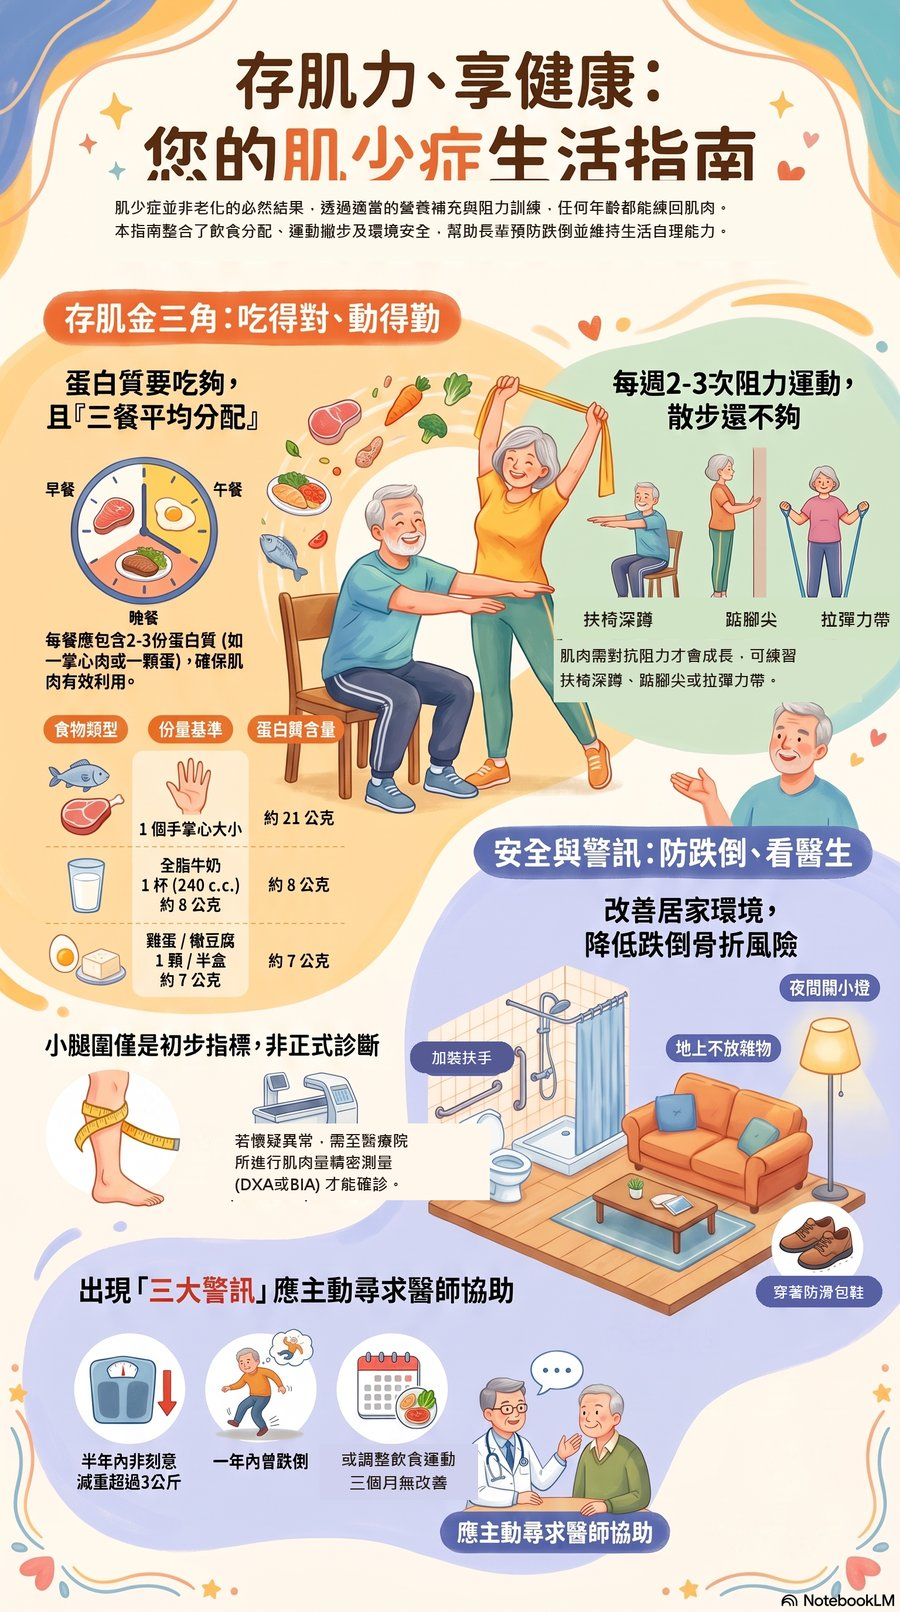
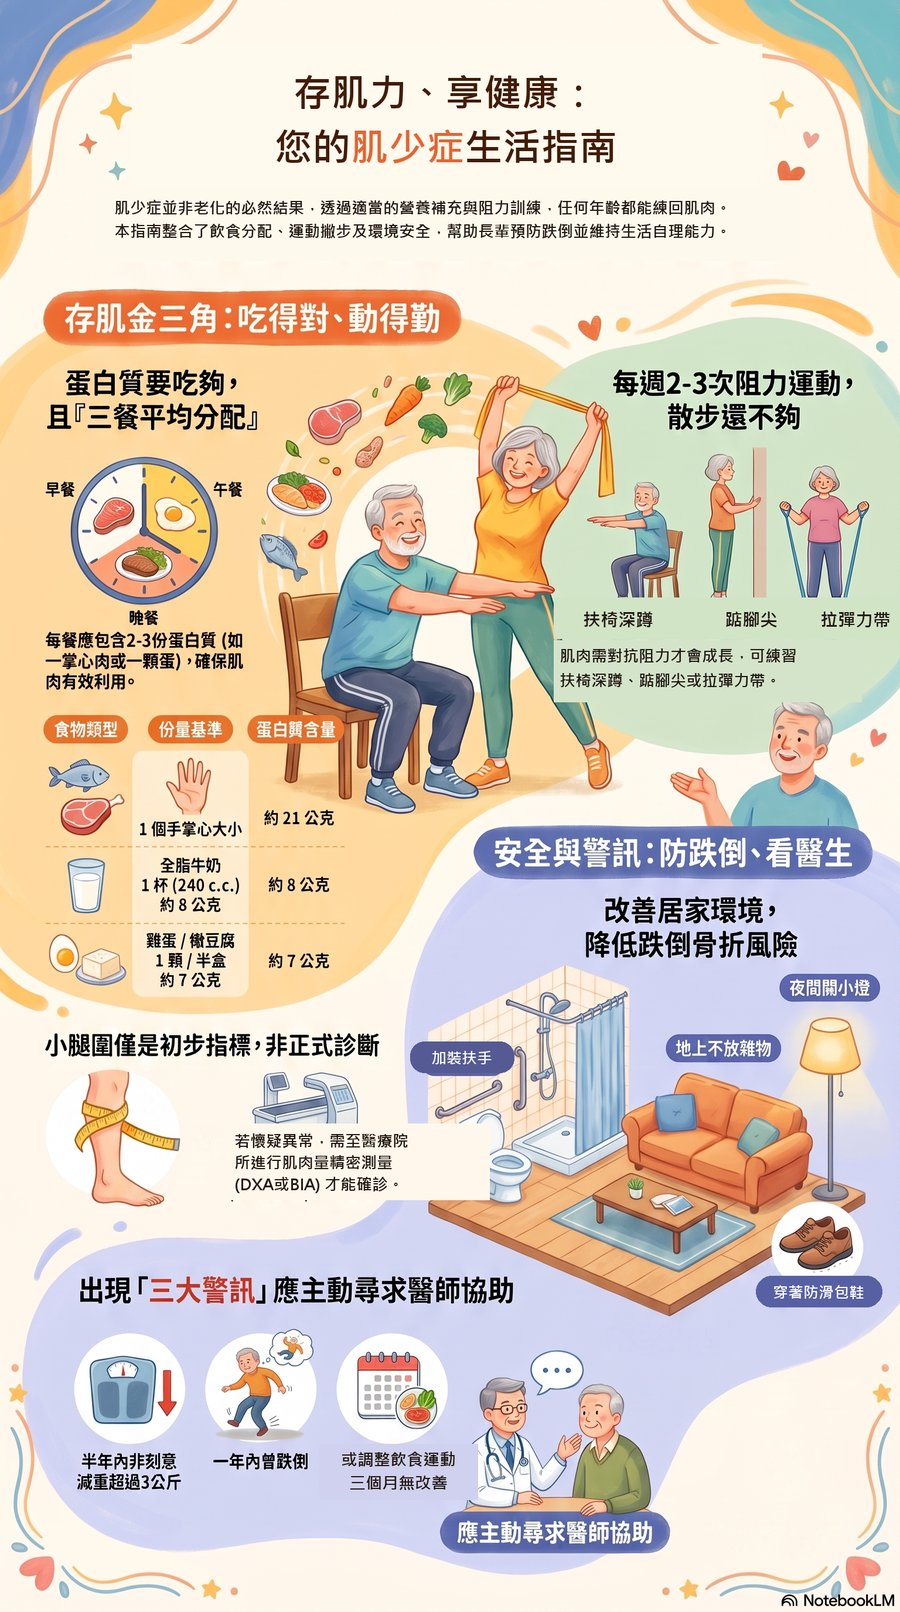
調整 Wordwall 測驗與海報：中文化、主題換亮、標題縮小
- quiz.html 內嵌網址改用 /tc/ 路徑，測驗介面全部中文化（開始／
  一系列多選題等），不用再看到英文
- Wordwall 主題從 Indigo 換成 Clouds，題目畫面從深色底變亮藍色；
  進場前的黑底封面卡片是 Wordwall 播放器固定樣式，換主題不會變，
  改用檸檬黃 (#FFF450) 包住測驗卡片外圍做折衷
- Wordwall 內容：11 處答案選項縮短拉齊字數，減少自動縮字造成的
  字體大小落差
- 海報標題「存肌力、享健康：您的肌少症生活指南」縮小字級，
  避免在部分裝置的預覽視窗被裁切

Changed region(s): [[0.1556, 0.031, 0.84, 0.1241]]

diff --git a/quiz.html b/quiz.html
@@ -20,6 +20,8 @@ h1{font-size:1.4rem;margin:0 0 4px}
   padding:16px;margin-bottom:18px}
 h2{font-size:1.1rem;margin:0 0 12px;color:var(--accent)}
 .poster{width:100%;border-radius:10px;display:block;margin:0 auto}
+.quiz-card{background:#FFF450;border-color:#e6dc48}
+.quiz-card h2{color:#5a4a00}
 .quiz-frame{width:100%;aspect-ratio:500/380;border:none;border-radius:10px;display:block}
 .edu-link{display:block;text-align:center;background:var(--accent);color:#fff;
   text-decoration:none;font-weight:700;padding:14px;border-radius:10px;margin-top:6px}
@@ -40,10 +42,10 @@ footer a{color:var(--accent)}
        alt="存肌力、享健康：肌少症生活指南衛教海報，內容包含蛋白質怎麼吃、阻力運動怎麼做、居家防跌與何時該看醫師">
 </div>
 
-<div class="card">
+<div class="card quiz-card">
   <h2>再玩玩看：10 題小測驗</h2>
   <iframe class="quiz-frame"
-    src="https://wordwall.net/embed/b01e95a1a20d4c91a9f0a1545d307ef8?themeId=62&templateId=5&fontStackId=0"
+    src="https://wordwall.net/tc/embed/b01e95a1a20d4c91a9f0a1545d307ef8?themeId=46&templateId=5&fontStackId=0"
     allowfullscreen></iframe>
 </div>
 
